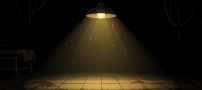
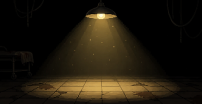
Sujetos: la cabeza ya no toca la lámpara, como pidió el dueño. El escenario, más alto (208 en vez de 180; el fondo de GPT, recortado de nuevo a 202 × 104 quitando de los lados), con los pies en el charco de luz y un techo unos píxeles por debajo de la lámpara: cada sujeto se dibuja al tamaño entero 

diff --git a/tools/foco_sujetos.py b/tools/foco_sujetos.py
@@ -1,6 +1,6 @@
 # El fondo de la ficha de Sujetos (Colecciones del ordenador, ui/ordenador.gd: ficha_bestiario): una sala de
 # laboratorio a oscuras con una lámpara colgada que echa un cono de luz al suelo de baldosas. Sale de la imagen de GPT
-# que pidió el dueño (8 nov), recortada al ancho y alto del escenario (404 × 180 unidades: 202 × 90 píxeles a 2 unidades
+# que pidió el dueño (8 nov), recortada al ancho y alto del escenario (404 × 208 unidades: 202 × 104 píxeles a 2 unidades
 # por píxel) quitando suelo de abajo (la lámpara, arriba, se queda entera) y reducida MEZCLANDO colores (cada píxel, la
 # media de su trozo), como los muebles de GPT (tools/muebles_gpt.py).
 #   py tools/foco_sujetos.py   (y luego Godot --headless --path . --import)
@@ -8,7 +8,7 @@ from PIL import Image
 
 ORIGEN = "assets/sources/foco-sujetos-gpt.webp"
 SPRITE = "assets/ui/foco-sujetos.png"
-ANCHO, ALTO = 202, 90
+ANCHO, ALTO = 202, 104
 
 im = Image.open(ORIGEN).convert("RGB")
 w, h = im.size
